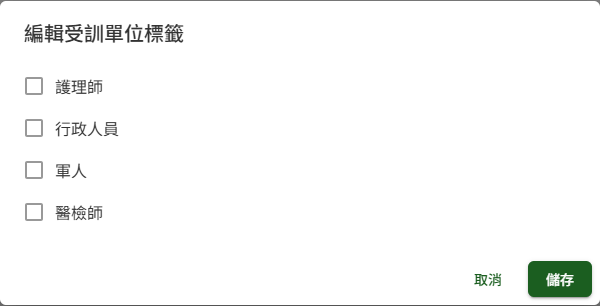
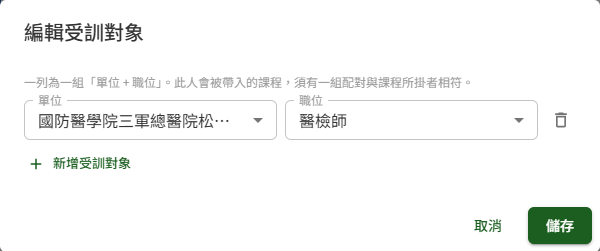
docs: DP02 權限管理手冊對齊受訓對象配對與未選完列擋下儲存
#552 將 ET 受訓單位標籤改為「單位 + 職位」配對（受訓對象），並改為新增列
未選完時擋下儲存。手冊、測試項目與 dp02-01／05／06 截圖同步更新，
DP 測試報告重新產出（DP02 12 項 → 13 項）。

diff --git a/docs/manuals/dp/DP02-權限管理.md b/docs/manuals/dp/DP02-權限管理.md
@@ -12,10 +12,12 @@
 
 | 模組 | 角色 | 另一個維度 |
 |---|---|---|
-| 教育訓練 | 管理者、教師、學員 | 受訓單位標籤 |
+| 教育訓練 | 管理者、教師、學員 | 受訓對象 |
 | 文件管理 | 管理者、編輯者、審核者、閱覽者 | 可見對象 |
 
-角色與另一個維度**彼此獨立**，可以各自設定：只給角色不給標籤、或只調整標籤不動角色，都可以。
+受訓對象與可見對象的設定方式相同，都是一組組的「**單位 + 職位**」配對，差別在決定的事情：可見對象決定此人看得到哪些文件，受訓對象決定此人會被帶入哪些課程。
+
+角色與另一個維度**彼此獨立**，可以各自設定：只給角色不給配對、或只調整配對不動角色，都可以。
 
 > 重要：教育訓練的「學員」角色在**帳號啟用當下由系統自動授予**（見 DP01 使用者管理），不需在此勾選。其餘角色一律由本作業開通——這是教育訓練教師、文件管理四種角色的**唯一開通路徑**。
 
@@ -33,14 +35,14 @@
 
 清單逐列顯示帳號、姓名、各角色的核取方塊、該模組的授權欄，以及最後異動。
 
-![切到「教育訓練（ET）」分頁，清單列出各使用者的三種角色與其受訓單位標籤](../_images/dp/dp02-01.png)
+![切到「教育訓練（ET）」分頁，清單列出各使用者的三種角色與其受訓對象](../_images/dp/dp02-01.png)
 
 ![切到「文件管理（DM）」分頁，角色換成四種、授權欄換成可見對象](../_images/dp/dp02-02.png)
 
 | 欄位 | 看不出來的地方 |
 |---|---|
 | 各角色核取方塊 | **勾選或取消即時生效**，沒有儲存按鈕 |
-| 可見對象／受訓單位標籤 | 以標籤呈現目前的授權，未設定時顯示「未指派」；按該欄的「編輯」另開視窗設定 |
+| 可見對象／受訓對象 | 每組「單位 + 職位」配對以一個標籤呈現，未設定時顯示「未指派」；按該欄的「編輯」另開視窗設定 |
 | 最後異動 | 顯示最近一次異動本列的**人員姓名與日期**；從未異動過者顯示「—」 |
 
 **查詢要按下「查詢」**
@@ -78,25 +80,32 @@
 
 ![按「編輯」開啟的設定視窗，既有的一組「單位 + 職位」以兩個下拉呈現](../_images/dp/dp02-04.png)
 
-> 重要：**兩欄都要選**。只選了其中一欄的新列，儲存時會被略過，視窗內會先顯示「有未選完的列（單位與職位皆須選取），儲存時將略過。」。
+> 重要：**兩欄都要選**。新增的列只選了其中一欄就按「儲存」時，視窗不會關閉、也不會儲存：未選的欄位以紅框標出，下方顯示「有未選完的列（紅框處）：請補選單位與職位，或按右側刪除鈕移除該列。」。補選完或刪掉該列後，再按一次「儲存」即可。
 
-![新增一列但兩欄都未選時，視窗下方以橘字提示該列儲存時將被略過](../_images/dp/dp02-05.png)
+![新增一列只選了單位就按「儲存」，未選的職位欄標出紅框，視窗下方以紅字提示補選或刪除](../_images/dp/dp02-05.png)
 
 可選的單位與職位清單來自系統參數，於 DP03 系統參數與清單維護管理；本作業只做「誰配哪一組」的指派。該模組尚未設定任何可選項目時，視窗內顯示「尚無可選群組。」。
 
-### 指派受訓單位標籤（教育訓練）
+### 設定受訓對象（教育訓練）
 
-於「受訓單位標籤」欄按「編輯」，開啟設定視窗，勾選該使用者所屬的受訓單位後按「儲存」。
+於「受訓對象」欄按「編輯」，開啟設定視窗。視窗的操作與上一節的可見對象**完全相同**：一列為一組「單位 + 職位」，按「新增受訓對象」加列、兩欄都要選、按「儲存」送出。
 
-受訓單位標籤為**單層清單、可複選**，與文件管理可見對象的「單位 + 職位」配對不同。
+![教育訓練的設定視窗同樣以「單位 + 職位」兩個下拉呈現每一組配對](../_images/dp/dp02-06.png)
 
-![教育訓練的設定視窗為可複選的標籤清單，沒有單位與職位的配對](../_images/dp/dp02-06.png)
+受訓對象決定此人會被帶入哪些課程。課程本身也掛有「單位 + 職位」配對（見 ET05 課程建立與編輯），課程發布時，配對相符且具學員角色的人會被自動加入，課程的建立者本人除外。相符的判斷方式如下：
 
-標籤決定課程發布時要自動邀請哪些人：課程掛了某個標籤，發布時該標籤對應的學員就會被自動加入，課程的建立者本人除外（見 ET05 課程建立與編輯）。
+| 課程所掛的配對 | 涵蓋哪些人 |
+|---|---|
+| 指定單位 + 指定職位 | 受訓對象有完全相同這一組的人 |
+| 「全單位」+ 指定職位 | 任何單位、該職位的人 |
+| 指定單位 + 「全體」 | 該單位、任何職位的人 |
+| 「全單位」+「全體」 | 全部具學員角色的人 |
 
-> 重要：為已具學員角色者**新增**標籤並儲存時，系統會**立即**把他加入所有掛該標籤、已發布且未關閉的課程，並寄一封列出這些課程的通知信。移除標籤時，他已加入的課程維持不變。
+一個人有多組配對時，**同一組**的單位與職位都相符才算，不會拿甲組的單位配乙組的職位。例如設定了「國防醫學院三軍總醫院 + 護理師」與「國軍高雄總醫院 + 醫檢師」的人，不會被帶入「國防醫學院三軍總醫院 + 醫檢師」的課程。
 
-可選的標籤清單同樣於 DP03 系統參數與清單維護管理。
+> 重要：為已具學員角色者**新增**一組配對並儲存時，系統會**立即**把他加入該配對涵蓋的所有已發布、未關閉課程，並寄一封列出這些課程的通知信。以「全單位 + 全體」開放給全部學員的課程不在此列，需要加入時請由課程教師以邀請碼或 Email 邀請補件。移除配對時，他已加入的課程維持不變。
+
+教育訓練的單位與職位清單於 DP03 系統參數與清單維護另行管理，與文件管理的清單**各自獨立**，於一邊增修不會帶到另一邊。
 
 ## 常見訊息與處置
 

diff --git a/docs/manuals/_tests/DP-平台管理模組.md b/docs/manuals/_tests/DP-平台管理模組.md
@@ -54,12 +54,12 @@
 |---|---|
 | 管理者帳號（兩模組） | 同時具教育訓練與文件管理管理者身分，本作業絕大多數項目以此帳號操作；兩個分頁都要看得到才測得到第 1 項 |
 | 管理者帳號（單一模組） | 只具其中一個模組管理者身分者，用於驗證分頁只列出可管理的模組（第 1 項）；兩個帳號都是雙模組管理者時這項驗不到 |
-| 受指派的一般使用者 | 一個啟用中、具學員角色、角色可自由增減的帳號，用於第 4、6、7、12 項。請勿使用測試者本人的帳號，否則會與第 5 項「不可取消本人角色」的檢核混淆 |
+| 受指派的一般使用者 | 一個啟用中、具學員角色、角色可自由增減的帳號，用於第 4、6、7、12、13 項。請勿使用測試者本人的帳號，否則會與第 5 項「不可取消本人角色」的檢核混淆 |
 | 已停用之帳號 | 一個狀態為「已停用」且**已持有至少一個角色**的帳號（第 3 項要驗「已持有的角色同樣無法取消」，沒有既有角色就驗不到）。可於 DP01 使用者管理停用取得 |
 | 可見對象選項 | DP03 系統參數與清單維護中，文件管理的「單位」與「職位」各至少 2 項且為啟用中 |
-| 受訓單位標籤選項 | DP03 中教育訓練的受訓單位標籤至少 2 項且為啟用中 |
-| 掛標籤之已發布課程 | 一門已發布、未關閉且掛有受訓單位標籤甲之課程；受指派的一般使用者尚未加入該課程、也未持有標籤甲（第 12 項）。該使用者不得為該課程的建立者 |
-| 可登入的受測帳號 | 第 7、12 項需以被指派者的身分登入確認，故需知道該帳號的密碼或可重設 |
+| 受訓對象選項 | DP03 系統參數與清單維護中，教育訓練的「單位」與「職位」各至少 2 項且為啟用中（與文件管理的清單各自獨立，需分別確認） |
+| 掛配對之已發布課程 | 一門已發布、未關閉的課程，受訓對象只掛一組「單位甲 + 職位甲」（單位與職位皆不得為「全單位」「全體」）。受指派的一般使用者尚未加入該課程、受訓對象為「未指派」，且不得為該課程的建立者（第 12、13 項） |
+| 可登入的受測帳號 | 第 7、13 項需以被指派者的身分登入確認，故需知道該帳號的密碼或可重設 |
 
 ### 測試項目清單
 
@@ -73,10 +73,11 @@
 | 6 | 對同一使用者同時勾選兩個以上角色，應全部可並存（權限取聯集）。 |
 | 7 | 為某使用者勾選文件管理的閱覽者後，以該帳號登入應可進入文件管理的功能，不需重新指派或等待。 |
 | 8 | 於文件管理分頁按「編輯」，新增一組「單位 + 職位」並儲存，該列的可見對象欄應顯示該組配對。 |
-| 9 | 新增一列但只選「單位」未選「職位」，視窗應先提示未選完的列將被略過，儲存後該列不應出現在可見對象欄。 |
+| 9 | 新增一列只選「單位」未選「職位」即按「儲存」，視窗不應關閉，職位欄應標出紅框並提示補選或刪除；按該列的移除鈕後再儲存，可見對象欄不應出現該列。 |
 | 10 | 移除一組既有的可見對象並儲存，該組應自欄位消失，其餘組別不受影響。 |
-| 11 | 於教育訓練分頁按「編輯」，勾選兩個受訓單位標籤並儲存，該列的受訓單位標籤欄應同時顯示兩者。 |
-| 12 | 為受指派的一般使用者新增受訓單位標籤甲並儲存，該員應立即出現在掛標籤甲之已發布課程的學員清單中，並收到一封列出該課程的通知信。 |
+| 11 | 於教育訓練分頁按「編輯」，視窗應同樣以「單位」「職位」兩個下拉呈現；新增兩組配對並儲存，該列的受訓對象欄應同時顯示兩組。 |
+| 12 | 為受指派的一般使用者新增「單位乙 + 職位甲」並儲存（職位相同、單位不同），該員**不應**出現在掛「單位甲 + 職位甲」之課程的學員清單中。 |
+| 13 | 再為同一使用者新增「單位甲 + 職位甲」並儲存，該員應立即出現在該課程的學員清單中，並收到一封列出該課程的通知信。 |
 
 ## DP06 排程作業總覽
 
